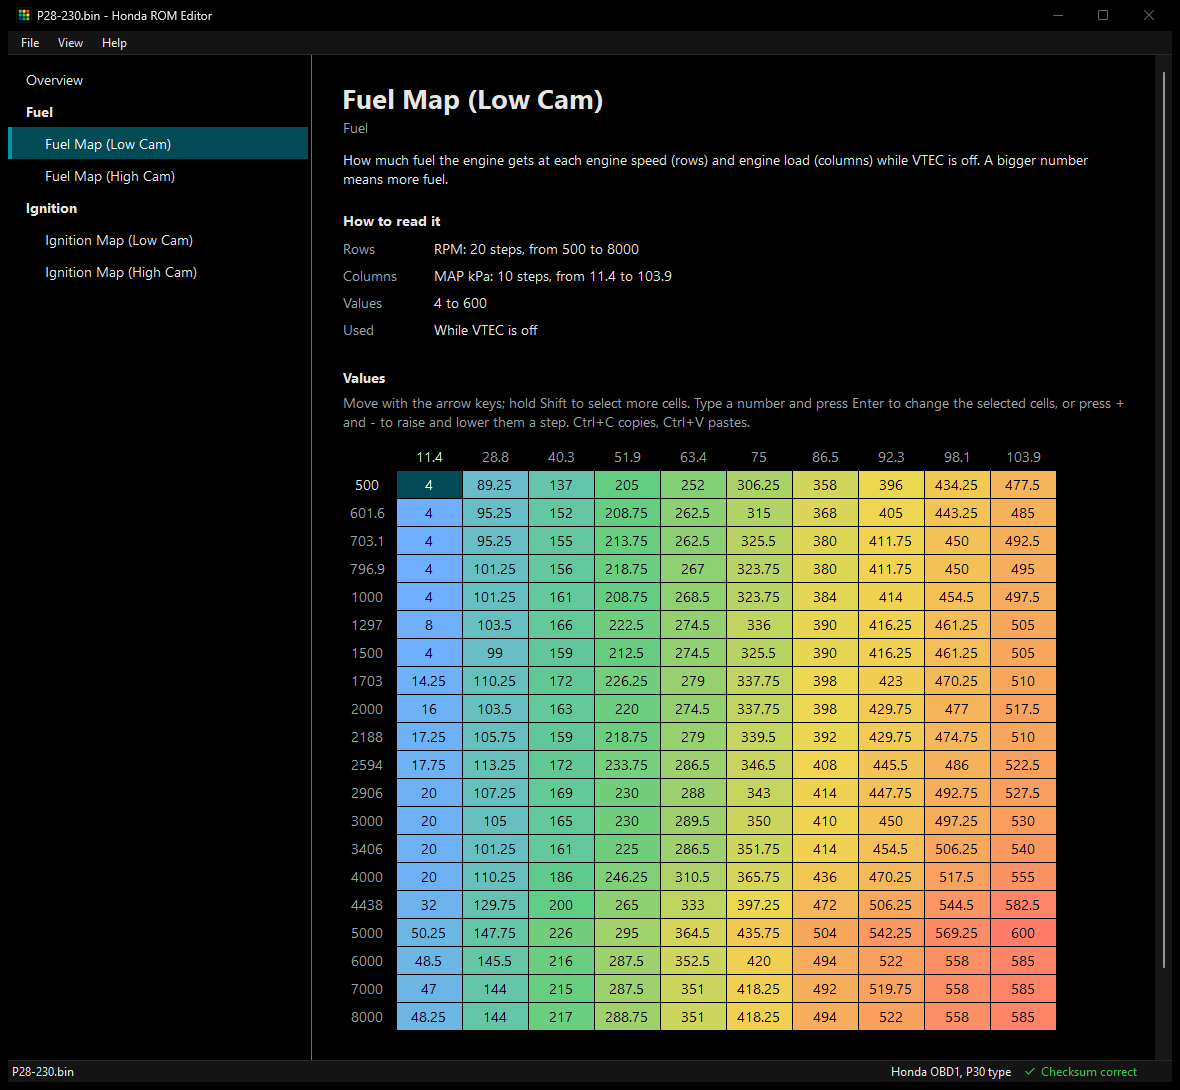
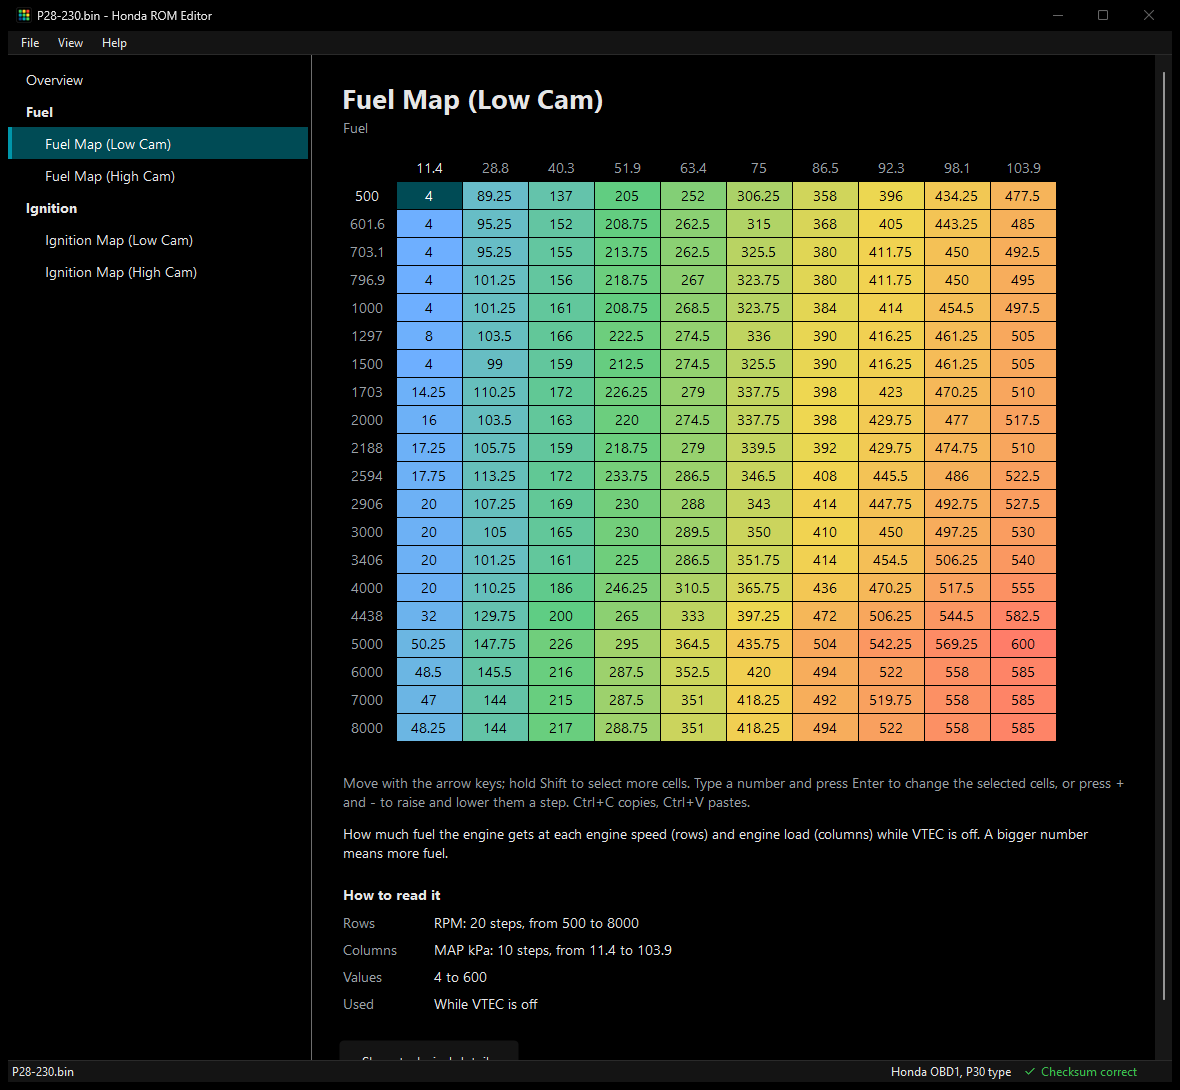
Put the cells of a table first on its page
A table's page had its description, its ranges and the keys above the
cells, so a tuner read past text to reach the table. The cells now
stand straight under the name of the table, and the rest follows them.

Claude-Session: https://claude.ai/code/session_01UbWhs9nnkGpTDvakkhycFU

diff --git a/src/HRE.App/Details.cs b/src/HRE.App/Details.cs
@@ -33,8 +33,8 @@ public abstract record PageBlock {
     /// <summary>Buttons, under an optional heading.</summary>
     public sealed record Actions(IReadOnlyList<PageAction> Items, string? Heading = null) : PageBlock;
 
-    /// <summary>The cells of a table, to read and to change, under a heading.</summary>
-    public sealed record Grid(string Heading, RomDocument Document, ParamDef Def) : PageBlock;
+    /// <summary>The cells of a table, to read and to change.</summary>
+    public sealed record Grid(RomDocument Document, ParamDef Def) : PageBlock;
 }
 
 /// <summary>What the page view shows: a title, a line under it and blocks.</summary>
@@ -48,7 +48,7 @@ public sealed record DetailPage(string Title, string Subtitle, IReadOnlyList<Pag
 public static class Details {
     public const string SupportedRomsUrl = "https://github.com/VIRUXE/honda-rom-editor/wiki/Supported-ROMs";
 
-    /// <summary>What can be done in the cells of a table, said above them: the keys are not to be guessed.</summary>
+    /// <summary>What can be done in the cells of a table, said under them: the keys are not to be guessed.</summary>
     public const string GridHelp = "Move with the arrow keys; hold Shift to select more cells. Type a number and press Enter to change the selected cells, or press + and - to raise and lower them a step. Ctrl+C copies, Ctrl+V pastes.";
 
     /// <summary>What this version can and cannot do yet.</summary>
@@ -189,6 +189,8 @@ public static class Details {
     public static DetailPage Param(RomDocument document, ParamDef def) {
         var image = document.Image;
         var blocks = new List<PageBlock>();
+        // A table is there to be worked on: its cells come first, and what is said of it follows.
+        if (def.Kind is ParamKind.Table) blocks.Add(new PageBlock.Grid(document, def));
         if (def.Doc.Length > 0) blocks.Add(new PageBlock.Paragraph(def.Doc));
         var technical = new List<DetailRow>();
         if (def.Symbol is { } symbol) technical.Add(new("Symbol", symbol));
@@ -203,7 +205,6 @@ public static class Details {
                 };
                 if (def.Vtec is { } vtec) reading.Add(new("Used", vtec ? "While VTEC is on" : "While VTEC is off"));
                 blocks.Add(new PageBlock.Section("How to read it", reading));
-                blocks.Add(new PageBlock.Grid(def.Unit.Length > 0 ? $"Values, in {def.Unit}" : "Values", document, def));
                 technical.Add(new("Cells", $"{table.Rows} x {table.Cols}, {CellName(def.Cell)}"));
                 AddScaling(technical, def);
                 if (def.Multiplier is { } m) {

diff --git a/tests/HRE.Tests/TableGridTests.cs b/tests/HRE.Tests/TableGridTests.cs
@@ -274,14 +274,15 @@ public class TableGridTests {
         using var view = new PageView { Size = new Size(700, 500) };
         view.Page = Details.Param(session.Document, session.Defs[0]);
         var grid = Assert.IsType<TableGrid>(view.Grid);
-        Assert.Contains("Values, in raw", view.Controls.OfType<Label>().Select(l => l.Text));
         var help = view.Controls.OfType<Label>().Single(l => l.Text == Details.GridHelp);
-        Assert.True(help.Bottom <= grid.Top, "what can be done with the cells is said above them");
+        // The cells come first: only the name of the table and its group stand above them.
+        Assert.True(help.Top >= grid.Bottom, "what can be done with the cells is said under them");
+        Assert.All(view.Controls.Cast<Control>().Where(c => c != grid && c.Top < grid.Top), c => Assert.True(c.Text is "Fuel Map" or "Fuel", c.Text));
         Assert.Equal(grid.ContentSize, grid.Size);
 
-        // In the tab order it stands where it is on the page: after the rows above it, before the button under it.
+        // In the tab order it stands where it is on the page: before the rows and the button under it.
         var order = view.Controls.Cast<Control>().OrderBy(c => c.TabIndex).ToList();
-        Assert.True(order.IndexOf(grid) > order.FindIndex(c => c is TextBox { AccessibleName: "Values" }));
+        Assert.True(order.IndexOf(grid) < order.FindIndex(c => c is TextBox { AccessibleName: "Values" }));
         Assert.True(order.IndexOf(grid) < order.FindIndex(c => c is Button));
         Assert.All(order.Zip(order.Skip(1)), pair => Assert.True(pair.Second.Top >= pair.First.Top, $"`{pair.Second.Text}` is above `{pair.First.Text}`"));
 

diff --git a/src/HRE.App/PageView.cs b/src/HRE.App/PageView.cs
@@ -291,9 +291,6 @@ public sealed class PageView : Panel {
     }
 
     private void AddGrid(PageBlock.Grid block) {
-        AddHeading(block.Heading);
-        // Above the cells: a table is taller than most windows, and what can be done with it is not to be scrolled for.
-        AddText(Details.GridHelp, null, DarkTheme.TextDim, 0.2f);
         if (_grid is null) {
             _grid = new TableGrid(block.Document, block.Def);
             _grid.Announced += text => {
@@ -319,10 +316,12 @@ public sealed class PageView : Panel {
         _parts.Add((x, y, width) => {
             // The table may be wider than the reading column, up to the width of the view.
             var size = grid.FitSize(ClientSize.Width - x - Em(1.25f));
-            grid.SetBounds(x, y + Em(0.5f), size.Width, size.Height);
-            var noteHeight = Math.Max(Fit(note, x, y + Em(0.5f) + size.Height + Em(0.4f), width), Em(1f));
-            return Em(0.5f) + size.Height + Em(0.4f) + noteHeight;
+            grid.SetBounds(x, y + Em(0.8f), size.Width, size.Height);
+            var noteHeight = Math.Max(Fit(note, x, y + Em(0.8f) + size.Height + Em(0.4f), width), Em(1f));
+            return Em(0.8f) + size.Height + Em(0.4f) + noteHeight;
         });
+        // Under the cells: nothing but the name of the table stands between the tuner and the table.
+        AddText(Details.GridHelp, null, DarkTheme.TextDim, 0.2f);
     }
 
     /// <summary>Scrolls the page so that the cell the keyboard is on is in view.</summary>

diff --git a/tests/HRE.Tests/AppShellTests.cs b/tests/HRE.Tests/AppShellTests.cs
@@ -195,7 +195,9 @@ public class AppShellTests {
         var described = session.Defs[0] with { Doc = "How much fuel the engine gets." };
         var page = Details.Param(session.Document, described);
         Assert.Equal(("Fuel Map", "Fuel"), (page.Title, page.Subtitle));
-        Assert.Equal(new PageBlock.Paragraph("How much fuel the engine gets."), page.Blocks[0]);
+        // The cells come first; what is said of the table follows them.
+        Assert.IsType<PageBlock.Grid>(page.Blocks[0]);
+        Assert.Equal(new PageBlock.Paragraph("How much fuel the engine gets."), page.Blocks[1]);
         Assert.Equal("RPM: 2 steps, from 10 to 30", Value(page, "Rows"));
         Assert.Equal("MAP: 3 steps, from 30 to 90", Value(page, "Columns"));
         // Cells 1..6, the columns multiplied by 1, 2 and 4.
@@ -208,7 +210,7 @@ public class AppShellTests {
         Assert.Equal("Bytes, each the step from the one before, 0x00F0 to 0x00F1 (2 bytes)", Value(page, "Row steps"));
 
         var wide = Details.Param(session.Document, session.Defs[1]);
-        Assert.IsNotType<PageBlock.Paragraph>(wide.Blocks[0]);
+        Assert.IsNotType<PageBlock.Paragraph>(wide.Blocks[1]);
         Assert.Equal("2 x 2, 16-bit, low byte first", Value(wide, "Cells"));
         Assert.Equal("stored x 0.5", Value(wide, "Shown as"));
         Assert.Equal("Not in the ROM: fixed by the description", Value(wide, "Column steps"));

diff --git a/docs/wiki/Application.md b/docs/wiki/Application.md
@@ -1,8 +1,8 @@
 # Application
 
-The editor is one window: a menu bar, a list of what the open ROM holds, a page that describes what is selected, and a status bar. It is built to the [[Design principles]]: usable with the keyboard alone and with a screen reader, in plain words, with the technical detail one command away.
+The editor is one window: a menu bar, a list of what the open ROM holds, a page for what is selected, and a status bar. A table's page is its cells, with what is said of the table under them. It is built to the [[Design principles]]: usable with the keyboard alone and with a screen reader, in plain words, with the technical detail one command away.
 
-![The main window with a fuel map selected: what the table is, how to read it, and its cells in colours from blue for the smallest value to red for the largest](https://raw.githubusercontent.com/VIRUXE/honda-rom-editor/main/docs/assets/shell.png)
+![The main window with a fuel map selected: its cells first, in colours from blue for the smallest value to red for the largest, and under them the keys, what the table is and how to read it](https://raw.githubusercontent.com/VIRUXE/honda-rom-editor/main/docs/assets/shell.png)
 
 Run it with `dotnet run --project src/HRE.App`, or start `HondaRomEditor.exe`. A ROM file given on the command line is opened.
 
@@ -43,12 +43,12 @@ Opening never changes the file.
 |---|---|
 | Overview | What kind of ROM the file was recognised as; whether its checksum is correct, with what a checksum is; its size; what it holds, group by group; its add-ons and whether each is on |
 | A group | Its tables and settings, each with its description |
-| A table | What the table is, in a sentence; what its rows and columns stand for, how many steps each has and from where to where they run; the range of its values; whether the engine computer uses it with VTEC on or off; and its cells, to read and to change |
+| A table | Its cells, to read and to change, straight under its name. Under them: the keys that work in the cells; what the table is, in a sentence; what its rows and columns stand for, how many steps each has and from where to where they run; the range of its values; whether the engine computer uses it with VTEC on or off |
 | A setting | Its value with its unit, and from where to where it can be set |
 
 ## The cells of a table
 
-Under **Values** a table shows its cells: one row for each step of the rows (engine speed, for the fuel and ignition maps), one column for each step of the columns (engine load). The steps are written along the top and down the left side. Each cell has a colour between blue, for the smallest value of the table, and red, for the largest, so that the shape of a table shows at a glance; the number is always there too.
+A table's page starts with its cells, and they take the keyboard focus when the page is reached with F6: one row for each step of the rows (engine speed, for the fuel and ignition maps), one column for each step of the columns (engine load). The steps are written along the top and down the left side. Each cell has a colour between blue, for the smallest value of the table, and red, for the largest, so that the shape of a table shows at a glance; the number is always there too.
 
 | To | Do |
 |---|---|

diff --git a/docs/wiki/Design-principles.md b/docs/wiki/Design-principles.md
@@ -36,6 +36,7 @@ Someone tuning the engine computer of a Honda, from a file read from its chip. M
 
 ## Behaviour
 
+- What is worked on comes first on its page. A table's page starts with its cells, straight under its name; the keys, the description and the ranges stand under them, where they are read once and are not in the way afterwards.
 - The next step is always on the screen as a button, with the keyboard focus on it at start. Nothing important is only in a menu.
 - Opening a file never changes it. A file that cannot be opened leaves what was open as it was, and the explanation appears above the page.
 - A file is recognised by the program; the user is never asked what kind of ROM it is.

diff --git a/README.md b/README.md
@@ -28,7 +28,7 @@
 > anything produced by this code into a car.
 
 <p align="center">
-  <img src="docs/assets/shell.png" alt="The main window: the list of tables on the left; on the right the selected fuel map, described in plain words, with its cells in colours from blue for the smallest value to red for the largest" width="90%">
+  <img src="docs/assets/shell.png" alt="The main window: the list of tables on the left; on the right the selected fuel map, its cells first in colours from blue for the smallest value to red for the largest, and what the table is under them" width="90%">
 </p>
 
 ---
